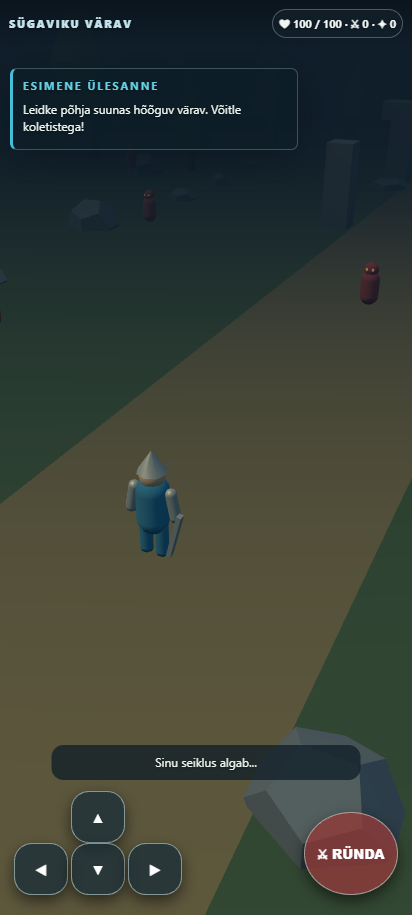
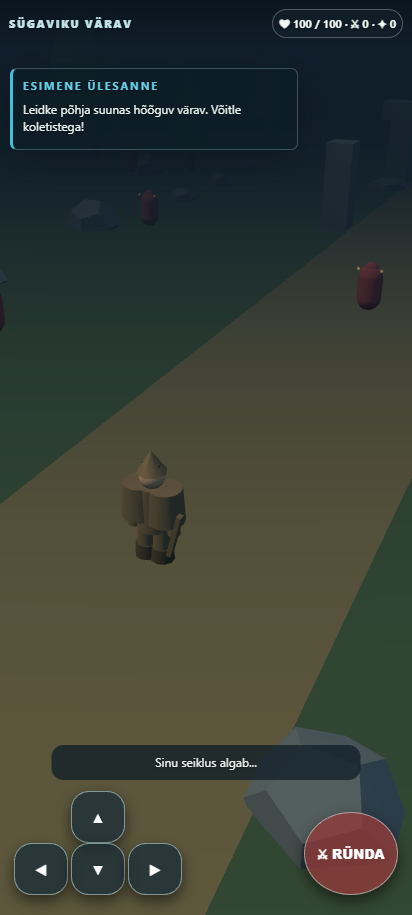
RPG 5H: publish verified 08:43 mobile/desktop captures and live report panel

Changed region(s): [[0.2913, 0.4896, 0.466, 0.6426], [0.8738, 0.2754, 0.932, 0.3366], [0.0, 0.3366, 0.0291, 0.3672]]

diff --git a/rpg5h-20261102/reports/index.html b/rpg5h-20261102/reports/index.html
@@ -1,1 +1,1 @@
-<!doctype html><html lang="et"><head><meta charset="UTF-8"><meta name="viewport" content="width=device-width,initial-scale=1"><meta http-equiv="refresh" content="1800"><title>Sügaviku Värav — Arengupäevik</title><style>body{margin:0;background:#0d1620;color:#e6f1f2;font:16px system-ui,sans-serif;padding:18px;max-width:900px;margin:auto}h1{font-size:23px;color:#8ed9eb}p{line-height:1.5}.btn{display:inline-block;padding:12px 18px;background:#277b9d;color:white;text-decoration:none;border-radius:10px;margin:5px 5px 12px 0}img{max-width:100%;border:1px solid #425565;border-radius:12px}.grid{display:grid;grid-template-columns:minmax(0,1fr) minmax(0,1.4fr);gap:15px}@media(max-width:600px){.grid{grid-template-columns:1fr}}small{color:#9ab2bf}</style></head><body><h1>Sügaviku Värav — AI mänguarendus</h1><p>Viietunnine mänguarendus (2. november 2026, 07:36–12:36 Eesti aja järgi). Kohalik arvuti salvestab pilte iga 30 minuti järel. Avalikud pildid võivad uueneda hiljem.</p><a class="btn" href="../">Mängi mängu</a><a class="btn" href="./latest-phone.png">Viimane telefonipilt</a><a class="btn" href="./latest-desktop.png">Viimane arvutipilt</a><div class="grid"><div><h2>Telefoni vaade</h2><img src="./latest-phone.png" alt="Viimane mängu ekraanipilt telefoni mõõdus"></div><div><h2>Arvuti vaade</h2><img src="./latest-desktop.png" alt="Viimane mängu ekraanipilt arvuti mõõdus"></div></div><p><small>Arendus toimub Bonsai 27B mudeliga, reasoning ON; kontrollitakse mängu brauseris ja testidega. Avaldatakse ainult kontrollitud versioonid.</small></p></body></html>
+<!doctype html><html lang="et"><head><meta charset="UTF-8"><meta name="viewport" content="width=device-width,initial-scale=1"><meta http-equiv="refresh" content="1800"><title>Sügaviku Värav — Arengupäevik</title><style>body{margin:0;background:#0d1620;color:#e6f1f2;font:16px system-ui,sans-serif;padding:18px;max-width:900px;margin:auto}h1{font-size:23px;color:#8ed9eb}p{line-height:1.5}.btn{display:inline-block;padding:12px 18px;background:#277b9d;color:white;text-decoration:none;border-radius:10px;margin:5px 5px 12px 0}img{max-width:100%;border:1px solid #425565;border-radius:12px}.grid{display:grid;grid-template-columns:minmax(0,1fr) minmax(0,1.4fr);gap:15px}@media(max-width:600px){.grid{grid-template-columns:1fr}}small{color:#9ab2bf}</style></head><body><h1>Sügaviku Värav — AI mänguarendus</h1><p>Viietunnine mänguarendus (2. november 2026, 07:36–12:36 Eesti aja järgi). Kohalik arvuti salvestab pilte iga 30 minuti järel. Avalikud pildid võivad uueneda hiljem.</p><a class="btn" href="../">Mängi mängu</a><a class="btn" href="./latest-phone.png">Viimane telefonipilt</a><a class="btn" href="./latest-desktop.png">Viimane arvutipilt</a><div class="grid"><div><h2>Telefoni vaade</h2><img src="./latest-phone.png" alt="Viimane mängu ekraanipilt telefoni mõõdus"></div><div><h2>Arvuti vaade</h2><img src="./latest-desktop.png" alt="Viimane mängu ekraanipilt arvuti mõõdus"></div></div><p id="status">Kontrollin viimast arenguseisu…</p><p><small>Kohalik AI töötab reasoning ON režiimis. Enne avaldamist kontrollitakse teste ja brauserit. Pildid uuenevad kontrollitud üleslaadimisel.</small></p><script>fetch('./latest.json?'+Date.now(),{cache:'no-store'}).then(r=>{if(!r.ok)throw Error('raport puudub');return r.json()}).then(d=>{const dt=new Date(d.timestamp).toLocaleString('et-EE',{timeZone:'Europe/Tallinn'});document.getElementById('status').textContent='Seis '+dt+': '+d.completed+'/'+d.planned+' etappi; testid '+(d.tests?'OK':'VIGA')+', build '+(d.build?'OK':'VIGA')+', brauser '+(d.smoke?'OK':'kontrollimata')+'.';}).catch(()=>{document.getElementById('status').textContent='Viimane avalik pilt on üleval; detailne raport pole hetkel kättesaadav.';});</script></body></html>
